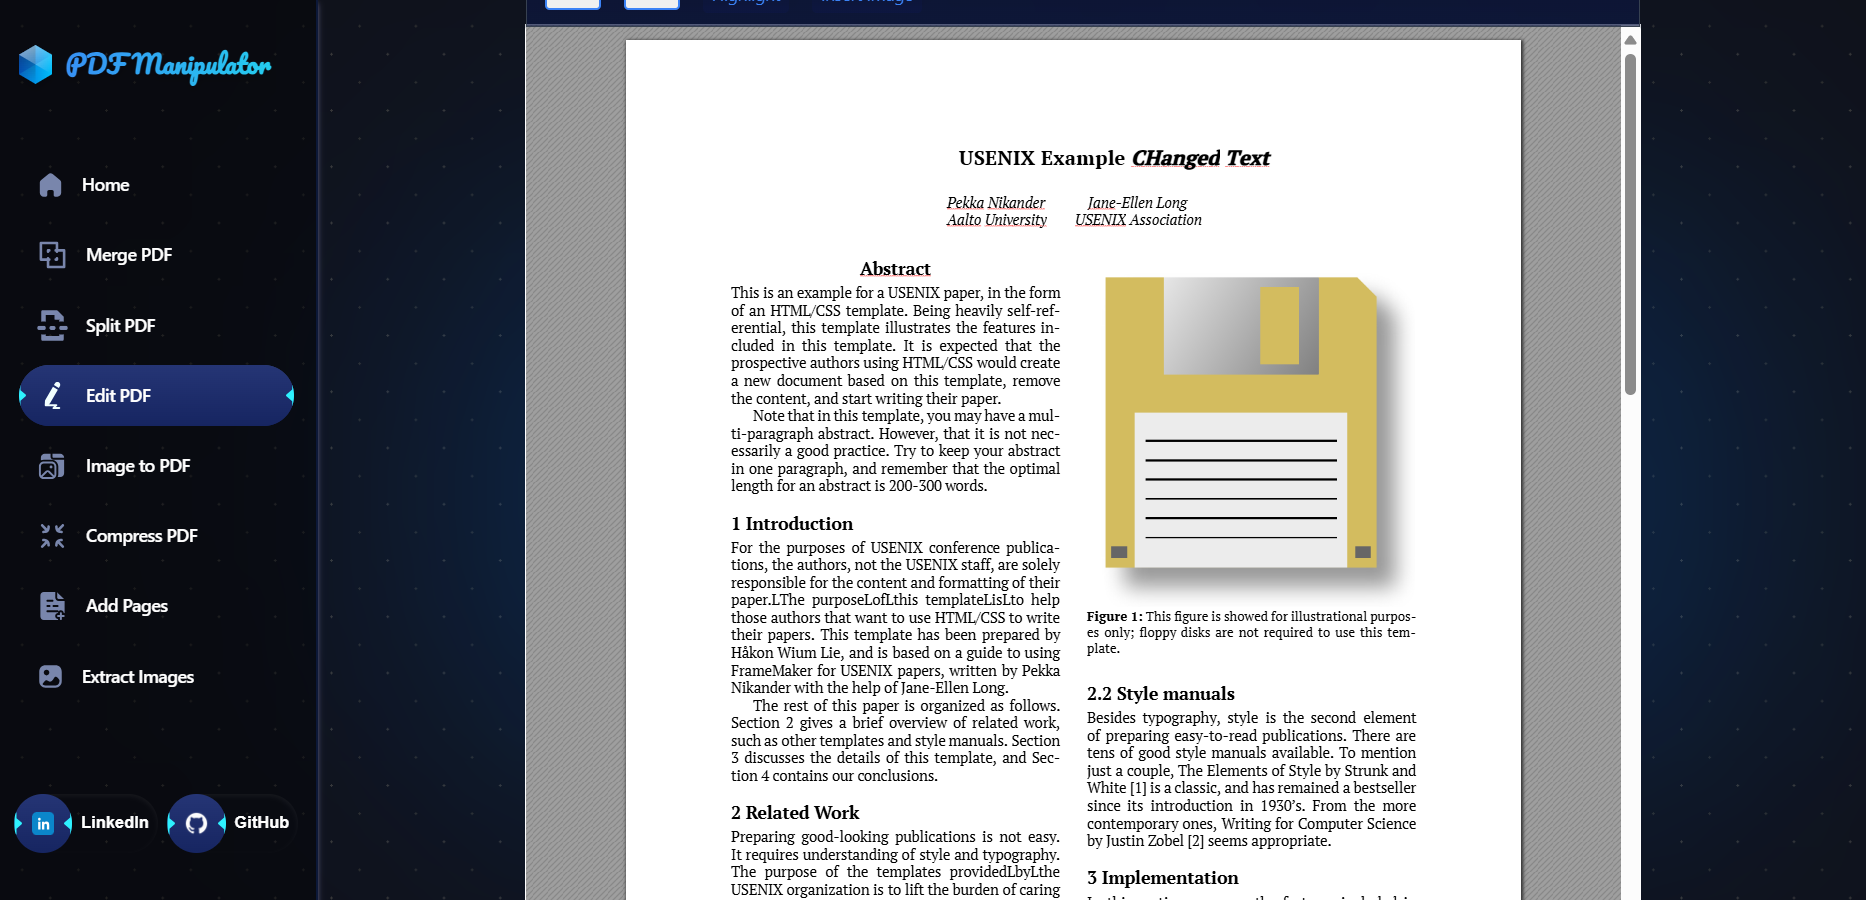
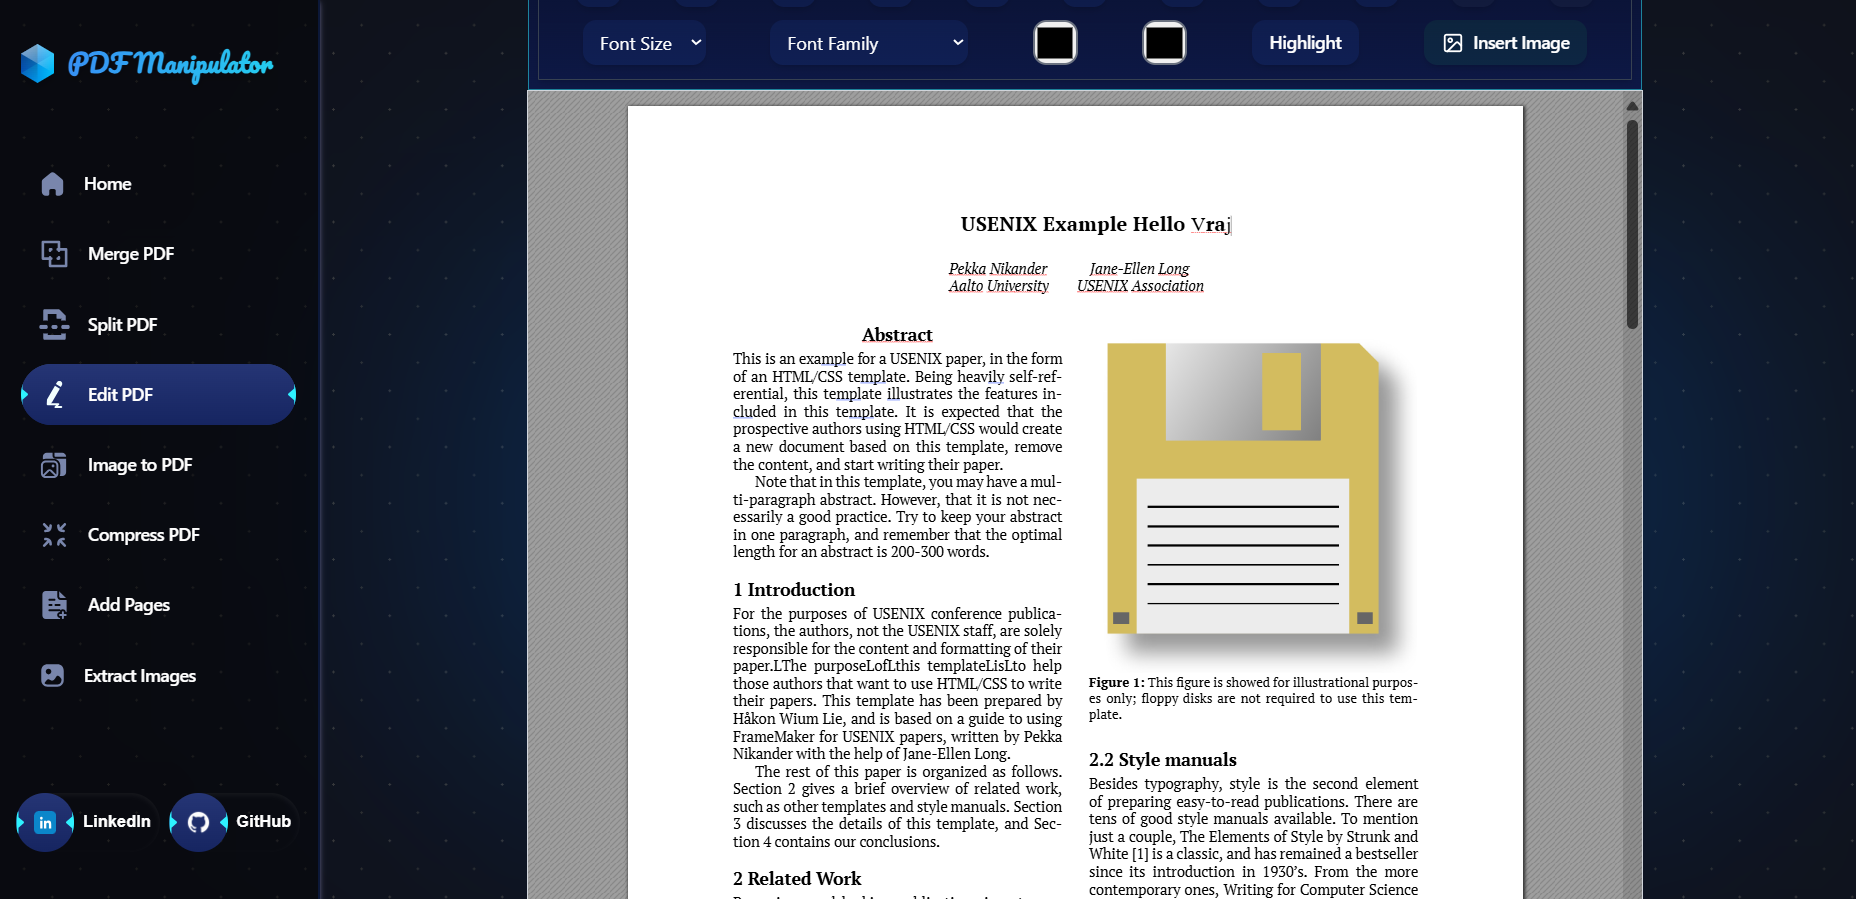
made it somewhat mobile responsive and removed useless things also updated demo images

diff --git a/components/Core/Toolbar.jsx b/components/Core/Toolbar.jsx
@@ -13,6 +13,7 @@ import {
   Undo,
   Redo,
   Code,
+  Image as ImageIcon,
 } from "lucide-react";
 
 const Toolbar = ({
@@ -32,66 +33,105 @@ const Toolbar = ({
   }
 
   return (
-    <div className="px-4 h-fit py-3 rounded-tl-md rounded-tr-md flex justify-between items-start gap-5 w-full flex-wrap border border-gray-700">
-      <div className="flex justify-start items-center gap-5 w-full  flex-wrap">
-        <button onClick={() => applyStyle("bold")} className="text-blue-500 p-2 rounded-lg hover:bg-blue-100">
-          <Bold className="w-5 h-5" />
+    <div className="px-4 py-3 rounded-xl rounded-b-none flex flex-wrap justify-between gap-3 w-full border border-gray-700 bg-[linear-gradient(#0a1130c1,#0d1845a4)] shadow-md">
+      {/* Formatting Buttons */}
+      <div className="flex flex-wrap w-full justify-around gap-3">
+        {[
+          { action: "bold", icon: <Bold /> },
+          { action: "italic", icon: <Italic /> },
+          { action: "underline", icon: <Underline /> },
+          { action: "strike", icon: <Strikethrough /> },
+          { action: "heading", icon: <Heading2 />, args: 2 },
+          { action: "bulletList", icon: <List /> },
+          { action: "orderedList", icon: <ListOrdered /> },
+          { action: "blockquote", icon: <Quote /> },
+          { action: "code", icon: <Code /> },
+        ].map(({ action, icon, args }, index) => (
+          <button
+            key={index}
+            onClick={() => applyStyle(action, args)}
+            className="p-2  bg-opacity-10 rounded-xl bg-blue-600 hover:bg-blue-700 transition text-white shadow-md"
+          >
+            {icon}
+          </button>
+        ))}
+
+        {/* Undo / Redo */}
+        <button onClick={undo} className="p-2 rounded-xl bg-opacity-10 bg-gray-600 hover:bg-gray-700 transition text-white shadow-md">
+          <Undo />
         </button>
-        <button onClick={() => applyStyle("italic")} className="text-blue-500 p-2 rounded-lg hover:bg-blue-100">
-          <Italic className="w-5 h-5" />
+        <button onClick={redo} className="p-2 rounded-xl bg-opacity-10 bg-gray-600 hover:bg-gray-700 transition text-white shadow-md">
+          <Redo />
         </button>
-        <button onClick={() => applyStyle("underline")} className="text-blue-500 p-2 rounded-lg hover:bg-blue-100">
-          <Underline className="w-5 h-5" />
-        </button>
-        <button onClick={() => applyStyle("strike")} className="text-blue-500 p-2 rounded-lg hover:bg-blue-100">
-          <Strikethrough className="w-5 h-5" />
-        </button>
-        <button onClick={() => applyStyle("heading", 2)} className="text-blue-500 p-2 rounded-lg hover:bg-blue-100">
-          <Heading2 className="w-5 h-5" />
-        </button>
-        <button onClick={() => applyStyle("bulletList")} className="text-blue-500 p-2 rounded-lg hover:bg-blue-100">
-          <List className="w-5 h-5" />
-        </button>
-        <button onClick={() => applyStyle("orderedList")} className="text-blue-500 p-2 rounded-lg hover:bg-blue-100">
-          <ListOrdered className="w-5 h-5" />
-        </button>
-        <button onClick={() => applyStyle("blockquote")} className="text-blue-500 p-2 rounded-lg hover:bg-blue-100">
-          <Quote className="w-5 h-5" />
-        </button>
-        <button onClick={() => applyStyle("code")} className="text-blue-500 p-2 rounded-lg hover:bg-blue-100">
-          <Code className="w-5 h-5" />
-        </button>
-        <button onClick={undo} className="text-blue-500 p-2 rounded-lg hover:bg-blue-100">
-          <Undo className="w-5 h-5" />
-        </button>
-        <button onClick={redo} className="text-blue-500 p-2 rounded-lg hover:bg-blue-100">
-          <Redo className="w-5 h-5" />
-        </button>
-      
-        <select onChange={(e) => setFontSize(e.target.value)} className="px-2 py-1 bg-[linear-gradient(#0a1130c1,#0d1845a4)] text-blue-500 rounded">
+      </div>
+
+      {/* Dropdowns & Inputs */}
+      <div className="flex flex-wrap w-full justify-around gap-3">
+        {/* Font Size */}
+        <select
+          onChange={(e) => setFontSize(e.target.value)}
+          className="px-3 py-2 bg-opacity-10 bg-blue-600 text-white rounded-xl shadow-md"
+        >
           <option value="">Font Size</option>
-          {[...Array(150)].map((_, i) => (
-            <option key={i} value={i + 1}>{i + 1}</option>
+          {[10, 12, 14, 16, 18, 20, 24, 28, 32, 36, 40, 50, 60, 72].map((size) => (
+            <option key={size} value={size}>
+              {size}px
+            </option>
           ))}
         </select>
-        <select onChange={(e) => setFontFamily(e.target.value)} className="px-2 py-1 bg-[linear-gradient(#0a1130c1,#0d1845a4)] text-blue-500 rounded">
+
+        {/* Font Family */}
+        <select
+          onChange={(e) => setFontFamily(e.target.value)}
+          className="px-3 py-2 bg-opacity-10 bg-blue-600 text-white rounded-xl shadow-md"
+        >
           <option value="">Font Family</option>
           {["Arial", "Courier New", "Georgia", "Times New Roman", "Verdana", "Impact", "Comic Sans MS"].map((font) => (
-            <option key={font} value={font}>{font}</option>
+            <option key={font} value={font}>
+              {font}
+            </option>
           ))}
         </select>
-        <input type="color" onChange={(e) => setTextColor(e.target.value)} className="px-2 py-1 border-2 border-blue-500 rounded" title="Text Color" />
-        <input type="color" onChange={(e) => setBackgroundColor(e.target.value)} className="px-2 py-1 border-2 border-blue-500 rounded" title="Background Color" />
-        <button onClick={setHighlight} className="px-2 py-1 bg-[linear-gradient(#0a1130c1,#0d1845a4)] text-blue-500 rounded hover:bg-blue-200">Highlight</button>
-        <button className="px-2 py-1 bg-[linear-gradient(#0a1130c1,#0d1845a4)] text-blue-500 rounded hover:bg-blue-200">
+
+        {/* Text Color */}
+        <input
+          type="color"
+          onChange={(e) => setTextColor(e.target.value)}
+          className="w-10 h-10 border-2 bg-opacity-10 border-gray-500 rounded-xl cursor-pointer"
+          title="Text Color"
+        />
+
+        {/* Background Color */}
+        <input
+          type="color"
+          onChange={(e) => setBackgroundColor(e.target.value)}
+          className="w-10 h-10 border-2 bg-opacity-10 border-gray-500 rounded-xl cursor-pointer"
+          title="Background Color"
+        />
+
+        {/* Highlight Button */}
+        <button
+          onClick={setHighlight}
+          className="px-4 py-2 bg-blue-600 bg-opacity-10 text-white font-semibold rounded-xl shadow-md hover:bg-yellow-600 transition"
+        >
+          Highlight
+        </button>
+
+        {/* Image Upload */}
+        <button
+          className="px-4 py-2 bg-green-600 bg-opacity-10 text-white font-semibold rounded-xl shadow-md hover:bg-green-700 transition"
+        >
+          <label htmlFor="imageUpload" className="cursor-pointer bg-opacity-10 flex items-center gap-2">
+            <ImageIcon className="w-5 h-5" />
+            Insert Image
+          </label>
           <input
             type="file"
             id="imageUpload"
             accept="image/*"
             onChange={handleImageUpload}
-            style={{ display: 'none' }}
+            className="hidden"
           />
-          <span onClick={() => document.getElementById('imageUpload').click()}>Insert Image</span>
         </button>
       </div>
     </div>

diff --git a/components/Core/PDFEditor/PDFEditorComplex.jsx b/components/Core/PDFEditor/PDFEditorComplex.jsx
@@ -110,6 +110,8 @@ function PDFEditorComplex() {
       showToastError("Failed to download PDF. Please try again.");
     } finally {
       setIsDownloading(false);
+      setContent('')
+      setPdf('')
     }
   };
   const handleCommand = (command, value = null) => {
@@ -209,13 +211,13 @@ function PDFEditorComplex() {
                       </span>
                     </button>
                   )}
-                  
-                  {(isProcessing || isDownloading) &&(
+
+                  {(isProcessing || isDownloading) && (
                     <div className=' h-12 w-12 flex justify-center items-center '>
-                    <div className="w-6 h-6 ml-2 border-4 border-blue-500 border-t-transparent rounded-full animate-spin"></div>
+                      <div className="w-6 h-6 ml-2 border-4 border-blue-500 border-t-transparent rounded-full animate-spin"></div>
                     </div>
                   )}
-                  
+
                 </div>
               </div>
 
@@ -251,11 +253,11 @@ function PDFEditorComplex() {
             </div>
           </div>
         </div>
-
         {content && (
-          <div className="mt-32 relative w-full flex justify-between flex-col items-center border border-gray-300 rounded-lg shadow-lg">
+          <div className={`mt-72 md:mt-32 scale-95 md:scale-100 relative w-full flex flex-col items-center border border-gray-300 rounded-lg shadow-lg`}>
+
             {/* Toolbar Section */}
-            <div className="bg-[linear-gradient(#0a1130c1,#0d1845a4)] -mt-28 relative z-20 flex w-full">
+            <div className="bg-[linear-gradient(#0a1130,#0d1845)] border border-opacity-50 border-p1 rounded-xl rounded-b-none -mt-72 md:-mt-[137px] relative z-20 flex w-full flex-wrap justify-center gap-2 p-2 sm:justify-between">
               <Toolbar
                 editor={editorRef}
                 applyStyle={applyStyle}
@@ -272,13 +274,20 @@ function PDFEditorComplex() {
             {/* Editable content area */}
             <div
               ref={editorRef}
+              id="containerComplexEditor"
               contentEditable
               dangerouslySetInnerHTML={{ __html: content }}
-              className="editor-container border border-gray-400 rounded-lg min-h-[1000px] w-full overflow-auto"
-              style={{ background: "white", color: "black" }}
+              className={`editor-container h-[${pdfDimensions.height ? pdfDimensions.height + 50 : 500}px] w-full max-w-[95%] overflow-auto p-4`}
+              style={{
+                height: `${pdfDimensions.height}px`,
+                outline: "none",
+                  scrollbarWidth: "thin",
+                  scrollbarColor: "rgba(0, 0, 0, 0.6) rgba(0, 0, 0, 0.1)",
+              }}
             />
           </div>
         )}
+
       </div>
     </div>
   );
